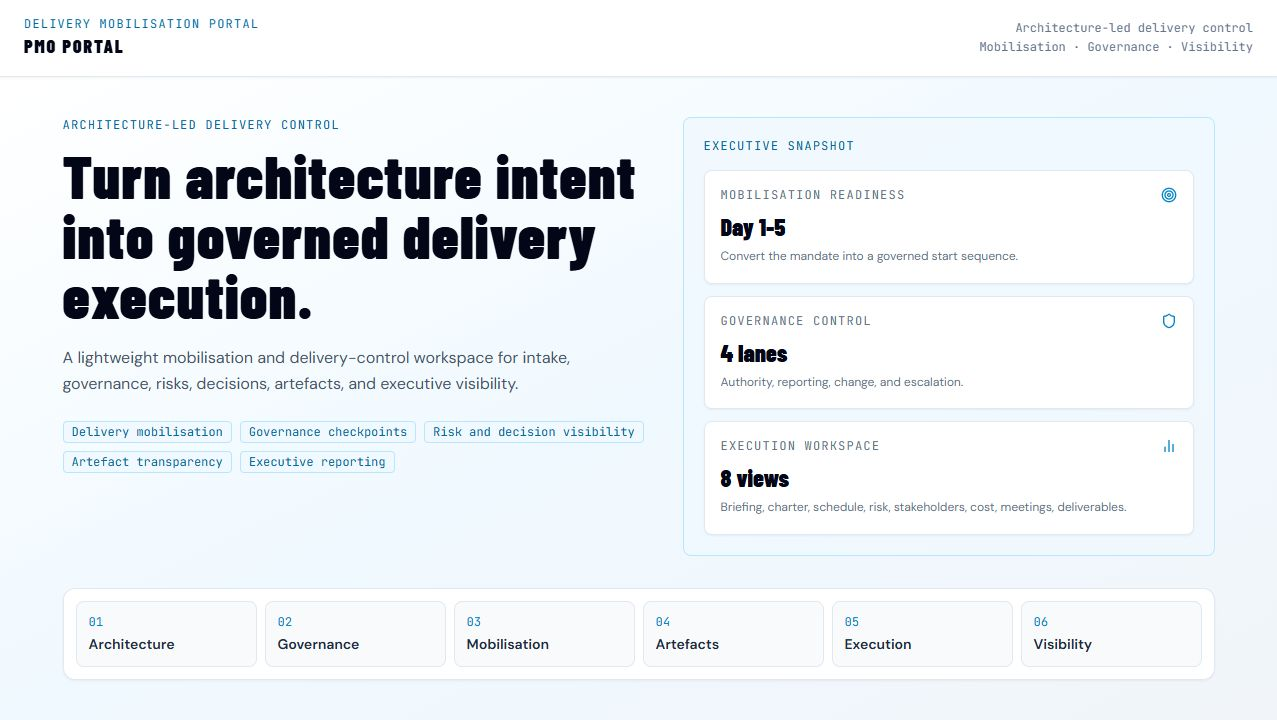
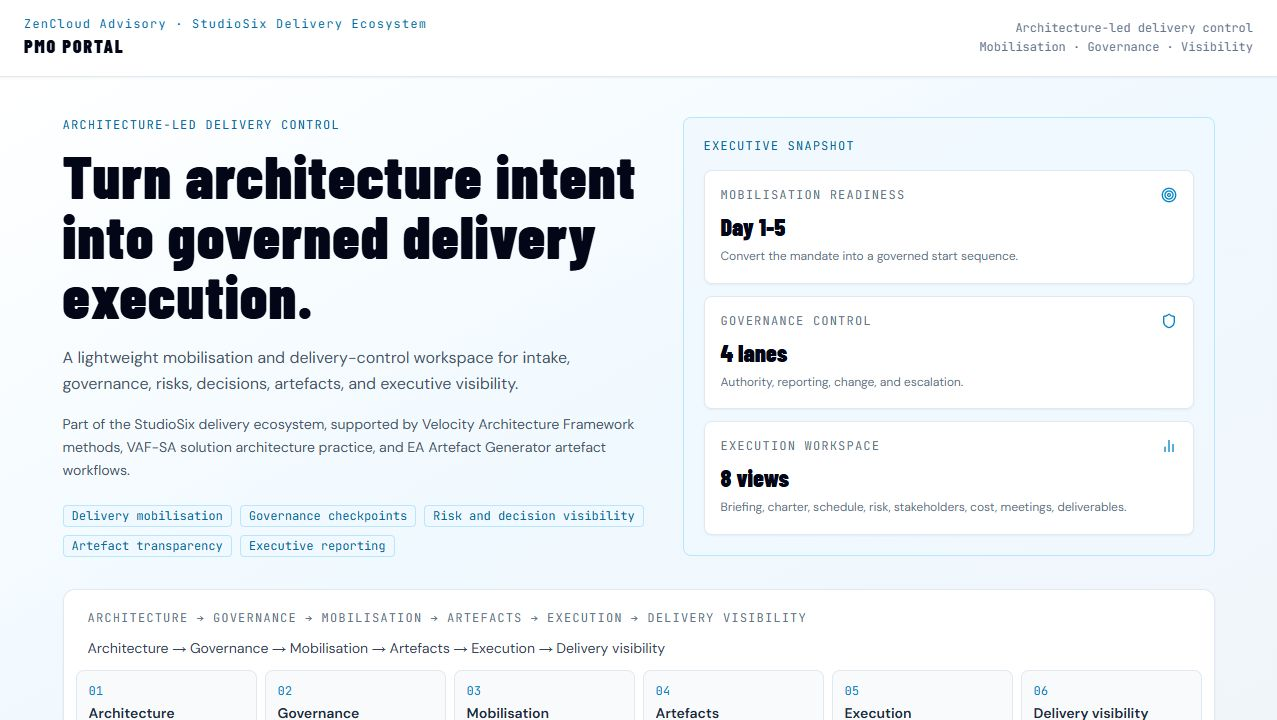
Add PMO Portal ecosystem context

diff --git a/src/views/IntakeScreen.tsx b/src/views/IntakeScreen.tsx
@@ -11,13 +11,54 @@ interface IntakeProps {
   error:      string | null
 }
 
+const WORKFLOW = 'Architecture → Governance → Mobilisation → Artefacts → Execution → Delivery visibility'
+
 const LIFECYCLE = [
   'Architecture',
   'Governance',
   'Mobilisation',
   'Artefacts',
   'Execution',
-  'Visibility',
+  'Delivery visibility',
+]
+
+const ECOSYSTEM_LINKS = [
+  {
+    name: 'ZenCloud Advisory',
+    role: 'Parent advisory practice',
+    desc: 'Parent advisory practice for enterprise architecture, cloud, security, AI, governance, and delivery leadership.',
+    href: 'https://www.zencloud.com.au/',
+  },
+  {
+    name: 'StudioSix',
+    role: 'Client engagement wrapper',
+    desc: 'Architecture-led AI delivery studio and client engagement wrapper.',
+    href: 'https://studiosix.com.au/',
+  },
+  {
+    name: 'Velocity Architecture Framework',
+    role: 'Architecture governance method',
+    desc: 'Architecture and decision governance method.',
+    href: 'https://velocityarchitectureframework.com',
+  },
+  {
+    name: 'VAF-SA',
+    role: 'Solution architecture practice',
+    desc: 'Solution architecture practitioner method.',
+    href: 'https://zencloudau.github.io/vaf-sa/',
+  },
+  {
+    name: 'EA Artefact Generator',
+    role: 'Artefact production layer',
+    desc: 'Artefact production layer for architecture and governance outputs.',
+    href: 'https://ea.velocityarchitecture.com.au/',
+  },
+  {
+    name: 'PMO Portal',
+    role: 'Delivery control workspace',
+    desc: 'Delivery mobilisation, governance, and execution visibility workspace.',
+    href: 'https://zencloudau.github.io/pmi-portal/',
+  },
 ]
 
 const SNAPSHOT_CARDS = [
@@ -61,7 +102,7 @@ export function IntakeScreen({ mandate, setMandate, onAnalyze, onLoadDemo, error
     <div className="min-h-screen bg-slate-50 flex flex-col text-slate-900">
       <header className="border-b border-slate-200 bg-white/95 px-6 py-4 flex items-center justify-between sticky top-0 z-10 shadow-sm">
         <div>
-          <div className="text-xs font-mono text-sky-700 tracking-widest">DELIVERY MOBILISATION PORTAL</div>
+          <div className="text-xs font-mono text-sky-700 tracking-widest">ZenCloud Advisory · StudioSix Delivery Ecosystem</div>
           <div className="text-lg font-black text-slate-950 tracking-widest font-display">
             PMO PORTAL
           </div>
@@ -84,6 +125,10 @@ export function IntakeScreen({ mandate, setMandate, onAnalyze, onLoadDemo, error
               <p className="text-base text-slate-600 leading-relaxed max-w-2xl">
                 A lightweight mobilisation and delivery-control workspace for intake, governance,
                 risks, decisions, artefacts, and executive visibility.
+              </p>
+              <p className="text-sm text-slate-600 leading-relaxed max-w-2xl mt-4">
+                Part of the StudioSix delivery ecosystem, supported by Velocity Architecture Framework
+                methods, VAF-SA solution architecture practice, and EA Artefact Generator artefact workflows.
               </p>
               <div className="flex flex-wrap gap-2 mt-6">
                 {['Delivery mobilisation', 'Governance checkpoints', 'Risk and decision visibility', 'Artefact transparency', 'Executive reporting'].map(t => (
@@ -113,6 +158,12 @@ export function IntakeScreen({ mandate, setMandate, onAnalyze, onLoadDemo, error
           </div>
 
           <div className="max-w-6xl mx-auto mt-8 rounded-xl border border-slate-200 bg-white p-3 shadow-sm">
+            <div className="px-3 pt-2 pb-3 text-xs font-mono text-slate-500 tracking-widest uppercase">
+              {WORKFLOW}
+            </div>
+            <p className="px-3 pb-3 text-sm text-slate-700">
+              Architecture → Governance → Mobilisation → Artefacts → Execution → Delivery visibility
+            </p>
             <div className="grid grid-cols-2 md:grid-cols-6 gap-2">
               {LIFECYCLE.map((step, i) => (
                 <div key={step} className="rounded-lg border border-slate-200 bg-slate-50 px-3 py-3">
@@ -120,6 +171,42 @@ export function IntakeScreen({ mandate, setMandate, onAnalyze, onLoadDemo, error
                   <div className="text-sm font-semibold text-slate-800">{step}</div>
                 </div>
               ))}
+            </div>
+          </div>
+        </section>
+
+        <section className="px-6 py-8 border-b border-slate-200 bg-white">
+          <div className="max-w-6xl mx-auto">
+            <div className="mb-5">
+              <div className="text-xs font-mono text-sky-700 tracking-widest uppercase mb-2">
+                How PMO Portal fits the delivery ecosystem
+              </div>
+              <h2 className="text-3xl font-black text-slate-950 leading-none font-display">
+                From advisory direction to visible delivery control.
+              </h2>
+            </div>
+            <div className="grid grid-cols-1 md:grid-cols-2 xl:grid-cols-3 gap-3">
+              {ECOSYSTEM_LINKS.map(item => (
+                <a
+                  key={item.name}
+                  href={item.href}
+                  target="_blank"
+                  rel="noopener noreferrer"
+                  className="rounded-lg border border-slate-200 bg-slate-50 p-4 hover:border-sky-300 hover:bg-sky-50 transition-colors"
+                >
+                  <div className="text-xs font-mono text-sky-700 tracking-widest uppercase mb-2">{item.role}</div>
+                  <div className="text-base font-bold text-slate-950">{item.name}</div>
+                  <p className="text-sm text-slate-600 leading-relaxed mt-2">{item.desc}</p>
+                </a>
+              ))}
+            </div>
+            <div className="mt-5 rounded-xl border border-slate-200 bg-sky-50 p-5">
+              <div className="text-sm font-bold text-slate-950 mb-2">Client transparency</div>
+              <p className="text-sm text-slate-700 leading-relaxed">
+                Every engagement creates a visible trail of artefacts, decisions, risks, assumptions,
+                governance checkpoints, and delivery outputs. Clients can see what is being produced,
+                why decisions were made, and where execution stands.
+              </p>
             </div>
           </div>
         </section>

diff --git a/README.md b/README.md
@@ -49,9 +49,9 @@ Intake -> Analyzing -> Briefing Room -> Workspace
 
 ![PMO Portal intake and mobilisation](docs/screenshots/pmi-portal-intake.png)
 
-### Governance and execution visibility
+### Ecosystem, governance, and execution visibility
 
-![PMO Portal governance and execution visibility](docs/screenshots/pmi-portal-dashboard.png)
+![PMO Portal ecosystem, governance, and execution visibility](docs/screenshots/pmi-portal-dashboard.png)
 
 ## How It Fits the StudioSix / VAF Ecosystem
 